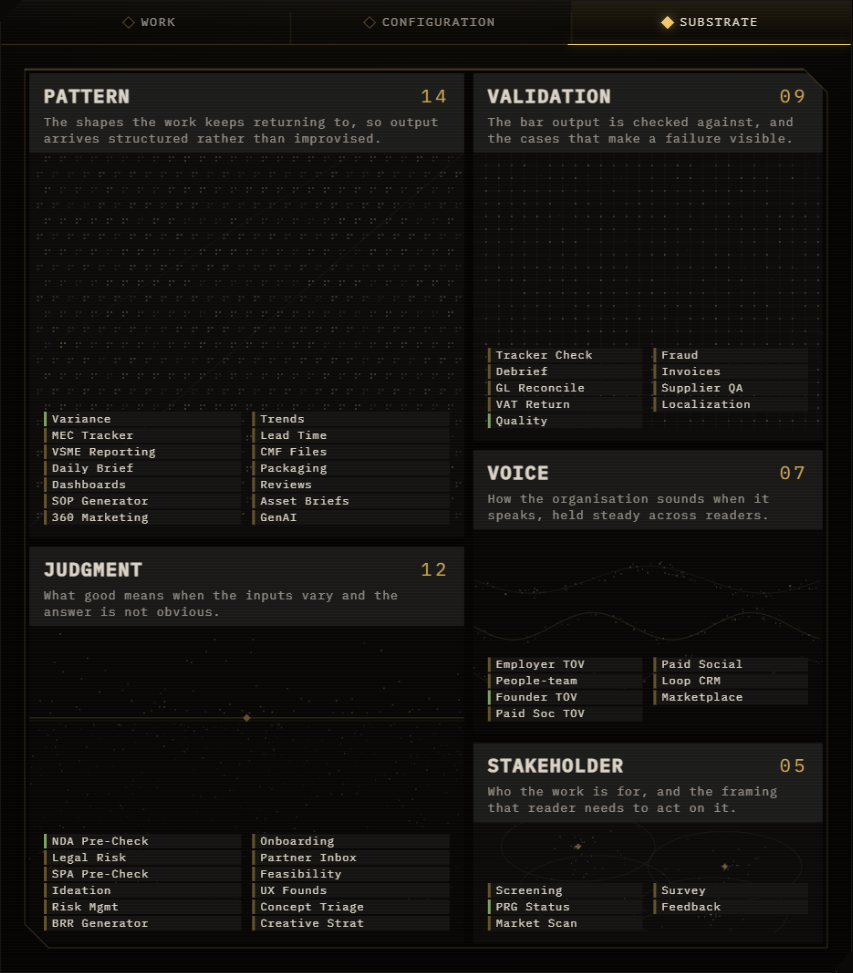
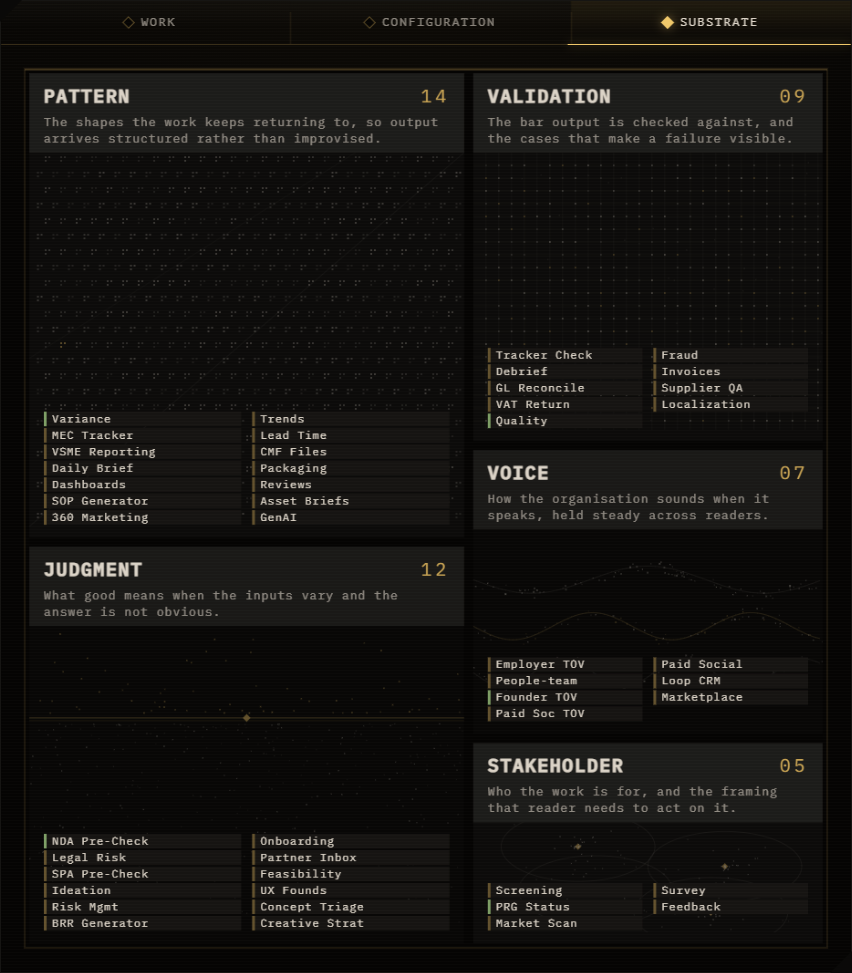
fix(map): the substrate plate is square — no outer cut (ADR-070 U24 addendum)
Owner: "the blocks of substrate shouldn't have these notches, just normal
corners."

The plate carried a TR+BL chamfer pair from U23. Two things were wrong with it,
and the second is the one a guard could have caught:

1. It read as a DEFECT rather than as a housing. The regions tile the plate
   right up to its outer edge, so the cut landed INSIDE whichever two regions
   hold those corners — Validation top-right, Judgment bottom-left. Three blocks
   square and two notched is not a machined housing, it is an inconsistency, and
   the eye finds it before it finds the grammar.
2. ⚠ IT TOOK AREA FROM EXACTLY TWO REGIONS, AND AREA IS THE COUNT. Each 26-unit
   chamfer removes 338u² from one region's painted face — 0.3 % of Validation.
   Small, but it fell on two named regions and on no others, which is the kind
   of quiet asymmetry the area claim exists to forbid: `substrateBlocks`
   computes full rects and the clip silently disagreed with them.

⚠ AND ADR-065 ALREADY SAID SO: the children of a chamfered box are SQUARE. The
console frame is the machined housing here (its own TL+BR override) and this
plate is its child. The cut was the exception all along, not the square corners.

The top rule runs the full width now — it used to stop at `W − OUTER_CUT` so it
died into the diagonal, and against a square corner that leaves 26 units of bare
edge reading as a broken line. `housing` is no longer imported here.
[…]

diff --git a/components/landing/home-v2/services/casefile/map/pda/PdaSubstrate.tsx b/components/landing/home-v2/services/casefile/map/pda/PdaSubstrate.tsx
@@ -7,7 +7,7 @@ import { wrapLines } from "./pdaGlyphs";
 import type { LetterSpec } from "./pdaLetters";
 import type { PdaShape } from "./pdaRecord";
 import { FormField, isFormKey } from "./substrateForms";
-import { FS, TRACK, housing } from "./substrateKit";
+import { FS, TRACK } from "./substrateKit";
 
 /**
  * 03 · THE SUBSTRATE — one plate divided into five regions of material, each
@@ -16,12 +16,12 @@ import { FS, TRACK, housing } from "./substrateKit";
  * ## The claim
  *
  * ONE PLATE, DIVIDED — not five cards collected. The crop is partitioned with
- * no gutters, area proportional to the Skill count, and the whole thing takes a
- * single outer cut, so Pattern's fourteen occupies nearly three times
- * Stakeholder's five. Each region is HEAD · PLATES · BED: its name and the
- * count, one sentence saying what that substrate MEANS, then every encoded
- * Skill as a named plate in two columns, all of it standing on the pattern's
- * own physics field.
+ * no gutters and area proportional to the Skill count, so Pattern's fourteen
+ * occupies nearly three times Stakeholder's five. Each region is HEAD · PLATES
+ * · BED: its name and the count, one sentence saying what that substrate MEANS,
+ * then every encoded Skill as a named plate in two columns, all of it standing
+ * on the pattern's own physics field. Every corner on this drawing is SQUARE —
+ * see the note on the outer cut.
  *
  * **The size difference is carried three ways, all derived from one number:**
  * the region's AREA is the gestalt, the plate run is the tally you can count,
@@ -32,9 +32,8 @@ import { FS, TRACK, housing } from "./substrateKit";
  * gutters away and the same five rectangles stop being objects and become
  * REGIONS of one surface, which is the claim this reading actually makes: one
  * intelligence layer, five recurring shapes. That is why the partition is
- * derived rather than authored, why there is one cut on the outer boundary
- * only, and why chamfering each region is banned — five machined housings would
- * undo the whole paragraph above.
+ * derived rather than authored, and why chamfering each region is banned — five
+ * machined housings would undo the whole paragraph above.
  *
  * ## What it replaces, and the trade that was wrong
  *
@@ -117,9 +116,27 @@ const W = R - L;
 
 export const CARDS = 5;
 
-/** The outer cut. Larger than a module's, because it reads at the scale of the
- *  whole panel rather than of one card. */
-const OUTER_CUT = 26;
+/* ── THE PLATE IS SQUARE — THERE IS NO OUTER CUT ─────────────────────────
+   (owner, 2026-08-17: the substrate blocks should have normal corners.)
+
+   It carried a TR+BL chamfer pair from U23. Two things were wrong with it, and
+   the second is the one a guard could have caught:
+
+   1. It read as a DEFECT rather than as a housing. The regions tile the plate
+      right up to its outer edge, so the cut landed INSIDE whichever two regions
+      hold those corners — Validation top-right, Judgment bottom-left. Three
+      blocks square and two notched is not a machined housing, it is an
+      inconsistency, and the eye finds it before it finds the grammar.
+   2. ⚠ IT TOOK AREA FROM EXACTLY TWO REGIONS, AND AREA IS THE COUNT. Each
+      26-unit chamfer removes 338u² from one region's painted face — 0.3 % of
+      Validation. Small, but it fell on two named regions and on no others,
+      which is the kind of quiet asymmetry the area claim exists to forbid:
+      `substrateBlocks` computes full rects and the clip silently disagreed.
+
+   ⚠ AND ADR-065 ALREADY SAID SO: the children of a chamfered box are SQUARE.
+   The console frame is the machined housing here (its own TL+BR override) and
+   this plate is its child. The cut was the exception, not the square corners. */
+
 /** A region's own text inset. */
 const PAD_IN = 16;
 
@@ -558,20 +575,19 @@ export function ViewSubstrate({
   const blocks = substrateBlocks(rows, layout.boxH);
   const byKey = new Map(shapes.map((s) => [s.key as string, s]));
   const counts = new Map(rows.map((r) => [r.key, r.n]));
-  const outer = housing(L, BOX_Y, W, layout.boxH, OUTER_CUT);
 
   return (
     <>
       <defs>
         <clipPath id="pda-sub-outer">
-          <path d={outer} />
+          <rect x={L} y={BOX_Y} width={W} height={layout.boxH} />
         </clipPath>
       </defs>
 
       {/* ONE PLATE under the whole drawing, so the regions divide a surface
           rather than each bringing their own — and so the grout has something
-          to show. */}
-      <path d={outer} fill="var(--pda-void)" />
+          to show. Square: see the note on the outer cut. */}
+      <rect x={L} y={BOX_Y} width={W} height={layout.boxH} fill="var(--pda-void)" />
 
       <g clipPath="url(#pda-sub-outer)">
         {blocks.map((b, i) => {
@@ -750,12 +766,16 @@ export function ViewSubstrate({
         })}
       </g>
 
-      {/* The one cut, stroked over the clip so the outer edge stays crisp. */}
-      <path d={outer} fill="none" stroke="var(--pda-hair2)" />
+      {/* The plate's own edge, stroked over the clip so it stays crisp. */}
+      <rect x={L} y={BOX_Y} width={W} height={layout.boxH} fill="none" stroke="var(--pda-hair2)" />
+      {/* ⚠ THE TOP RULE RUNS THE FULL WIDTH NOW. It used to stop at
+          `W − OUTER_CUT` so it died into the chamfer's diagonal; with the
+          corner square, stopping short leaves 26 units of bare edge at the
+          top-right that reads as a broken line. */}
       <line
         x1={L}
         y1={BOX_Y + 1}
-        x2={L + W - OUTER_CUT}
+        x2={L + W}
         y2={BOX_Y + 1}
         stroke="var(--pda-hair2)"
         strokeWidth="2"

diff --git a/sentinel/decisions/070-configuration-is-a-switchboard.md b/sentinel/decisions/070-configuration-is-a-switchboard.md
@@ -2361,6 +2361,32 @@ carries 67 labels at 0.5u tolerance, and the light contrast walk holds because
 the labels reuse `--pda-txt` on the plate's own opaque ground. Captured on the
 REAL landing at 1280×720, at the owner's 1920×1247, and in light.
 
+### ⚠ Addendum, same day — the plate is SQUARE, there is no outer cut
+
+Owner: _"the blocks of substrate shouldn't have these notches, just normal
+corners."_ The plate carried a TR+BL chamfer pair from U23. Two things were
+wrong with it, and the second is the one a guard could have caught:
+
+1. **It read as a defect rather than as a housing.** The regions tile the plate
+   right up to its outer edge, so the cut landed INSIDE whichever two regions
+   hold those corners — Validation top-right, Judgment bottom-left. Three blocks
+   square and two notched is not a machined housing, it is an inconsistency, and
+   the eye finds it before it finds the grammar.
+2. ⚠ **IT TOOK AREA FROM EXACTLY TWO REGIONS, AND AREA IS THE COUNT.** Each
+   26-unit chamfer removes 338u² from one region's painted face — 0.3 % of
+   Validation. Small, but it fell on two named regions and on no others, which
+   is the kind of quiet asymmetry the area claim exists to forbid:
+   `substrateBlocks` computes full rects and the clip silently disagreed with
+   them.
+
+⚠ **AND ADR-065 ALREADY SAID SO: the children of a chamfered box are SQUARE.**
+The console frame is the machined housing here (its own TL+BR override) and this
+plate is its child. The cut was the exception all along, not the square corners.
+
+The top rule also runs the full width now — it used to stop at `W − OUTER_CUT`
+so it died into the diagonal, and against a square corner that leaves 26 units
+of bare edge reading as a broken line.
+
 ### Left open
 
 - **Fill fraction still varies across regions** (the head's fixed cost against a

diff --git a/.claude/rules/proof.md b/.claude/rules/proof.md
@@ -1174,6 +1174,14 @@ copy is DELETED and the lab's `shipped` mounts production.
   which is the subject of this reading.
 - **`GROUT` is 10, the title's baseline 32** (both owner asks: the boxes sat too
   close, the title too high).
+- ⚠ **EVERY CORNER IS SQUARE — THERE IS NO OUTER CUT** (owner, same day). The
+  plate's TR+BL chamfer landed INSIDE the two regions holding those corners
+  (Validation TR, Judgment BL), so three blocks read square and two notched;
+  and it removed 338u² from those two alone, which is **area, and area is the
+  count**. ⚠ ADR-065 already covered it: **the children of a chamfered box are
+  square**, and the console frame is the housing this plate is a child of. The
+  top rule runs the FULL width now — stopping short of a square corner leaves
+  26 units of bare edge that reads as a broken line.
 
 - **The partition is DERIVED, area is the Skill count, and there are NO
   GUTTERS.** Slice-and-dice over the mass ranking, one cut on the outer
